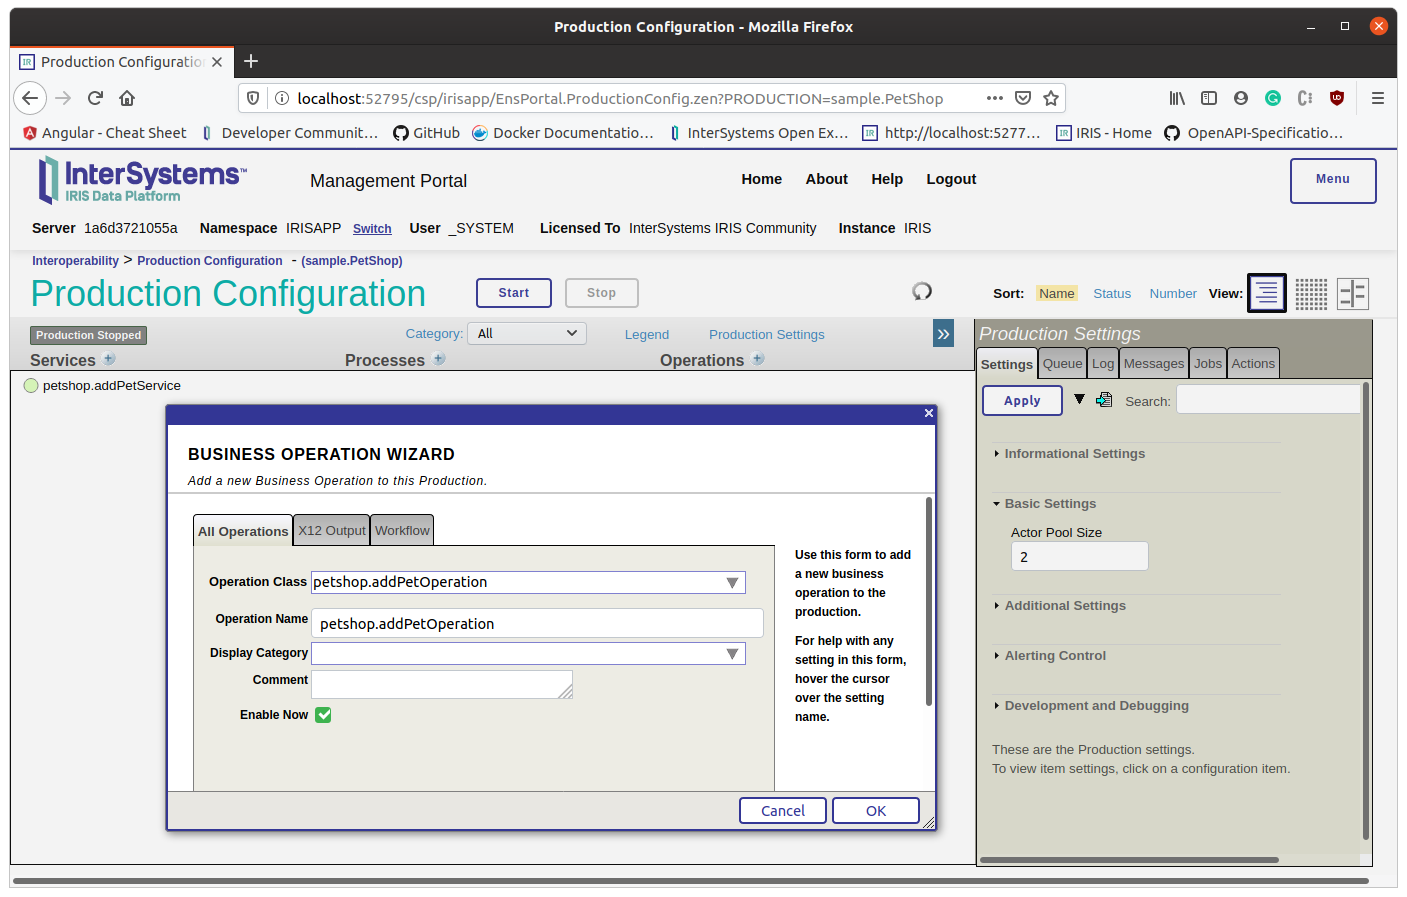
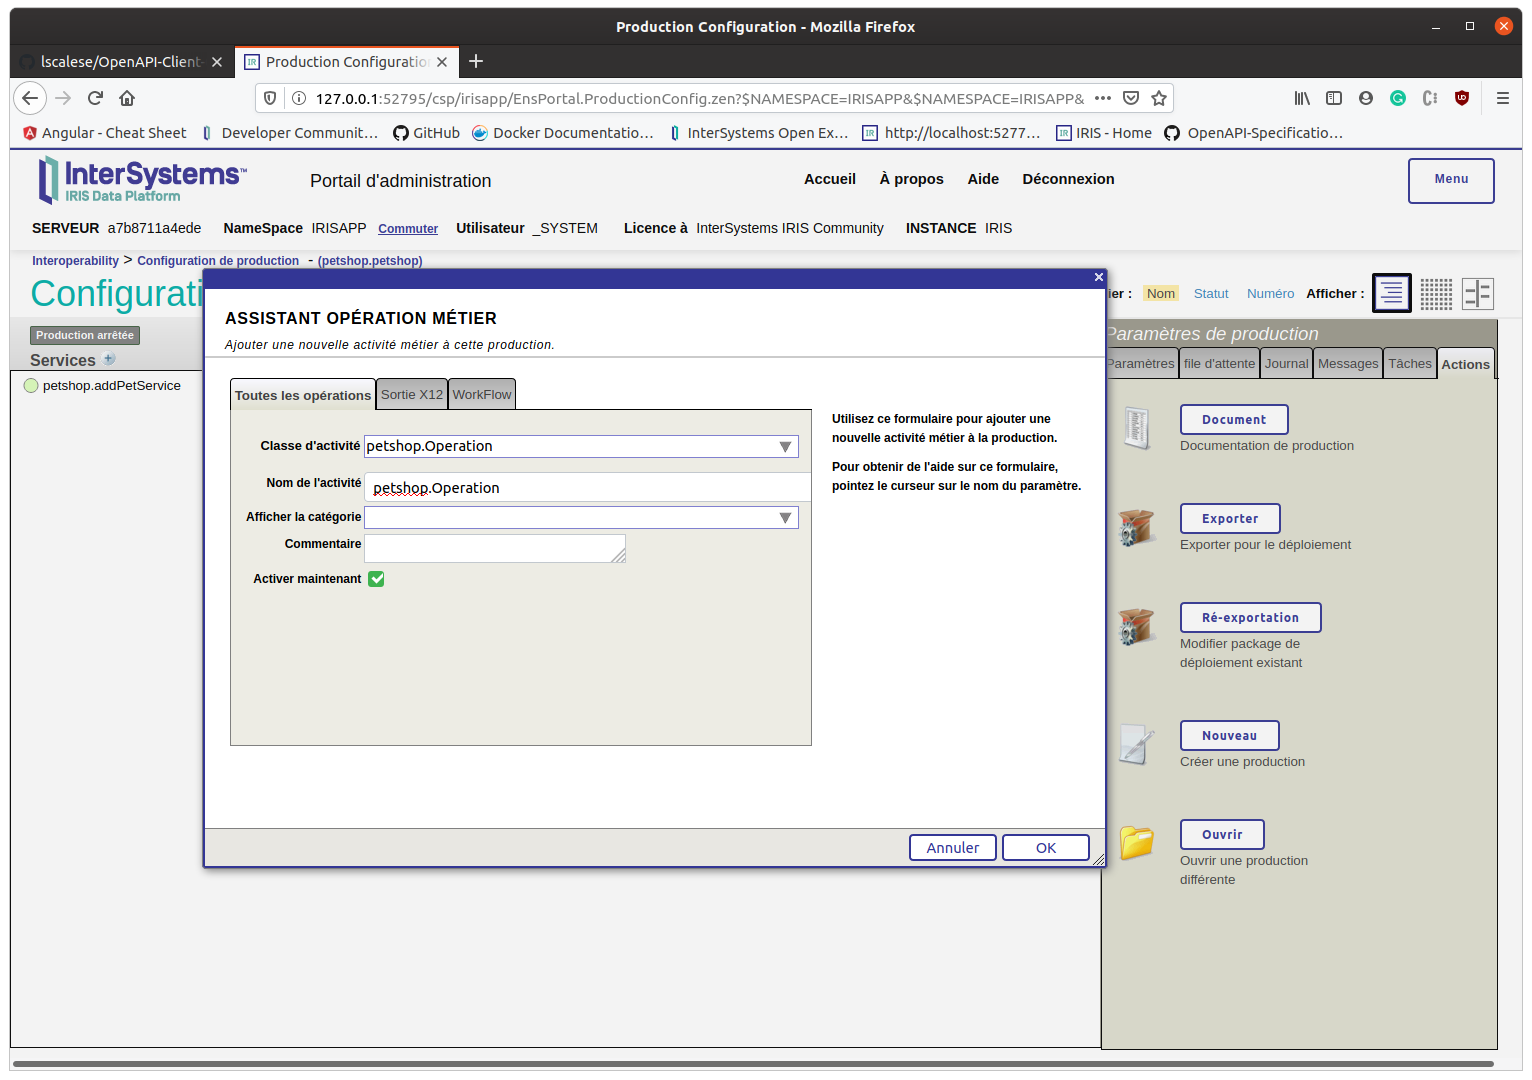
change behavior and add message map

diff --git a/README.md b/README.md
@@ -79,7 +79,7 @@ Method OnProcessInput(pInput As dc.openapi.client.samples.InputPet, pOutput As %
 		"status": "available"
 	}
 	Do msg.bodybody.Write(body.%ToJSON()) ; To implement
-	Return ..SendRequestAsync("petshop.addPetOperation", msg)
+	Return ..SendRequestAsync("petshop.Operation", msg)
 }
 ```
 
